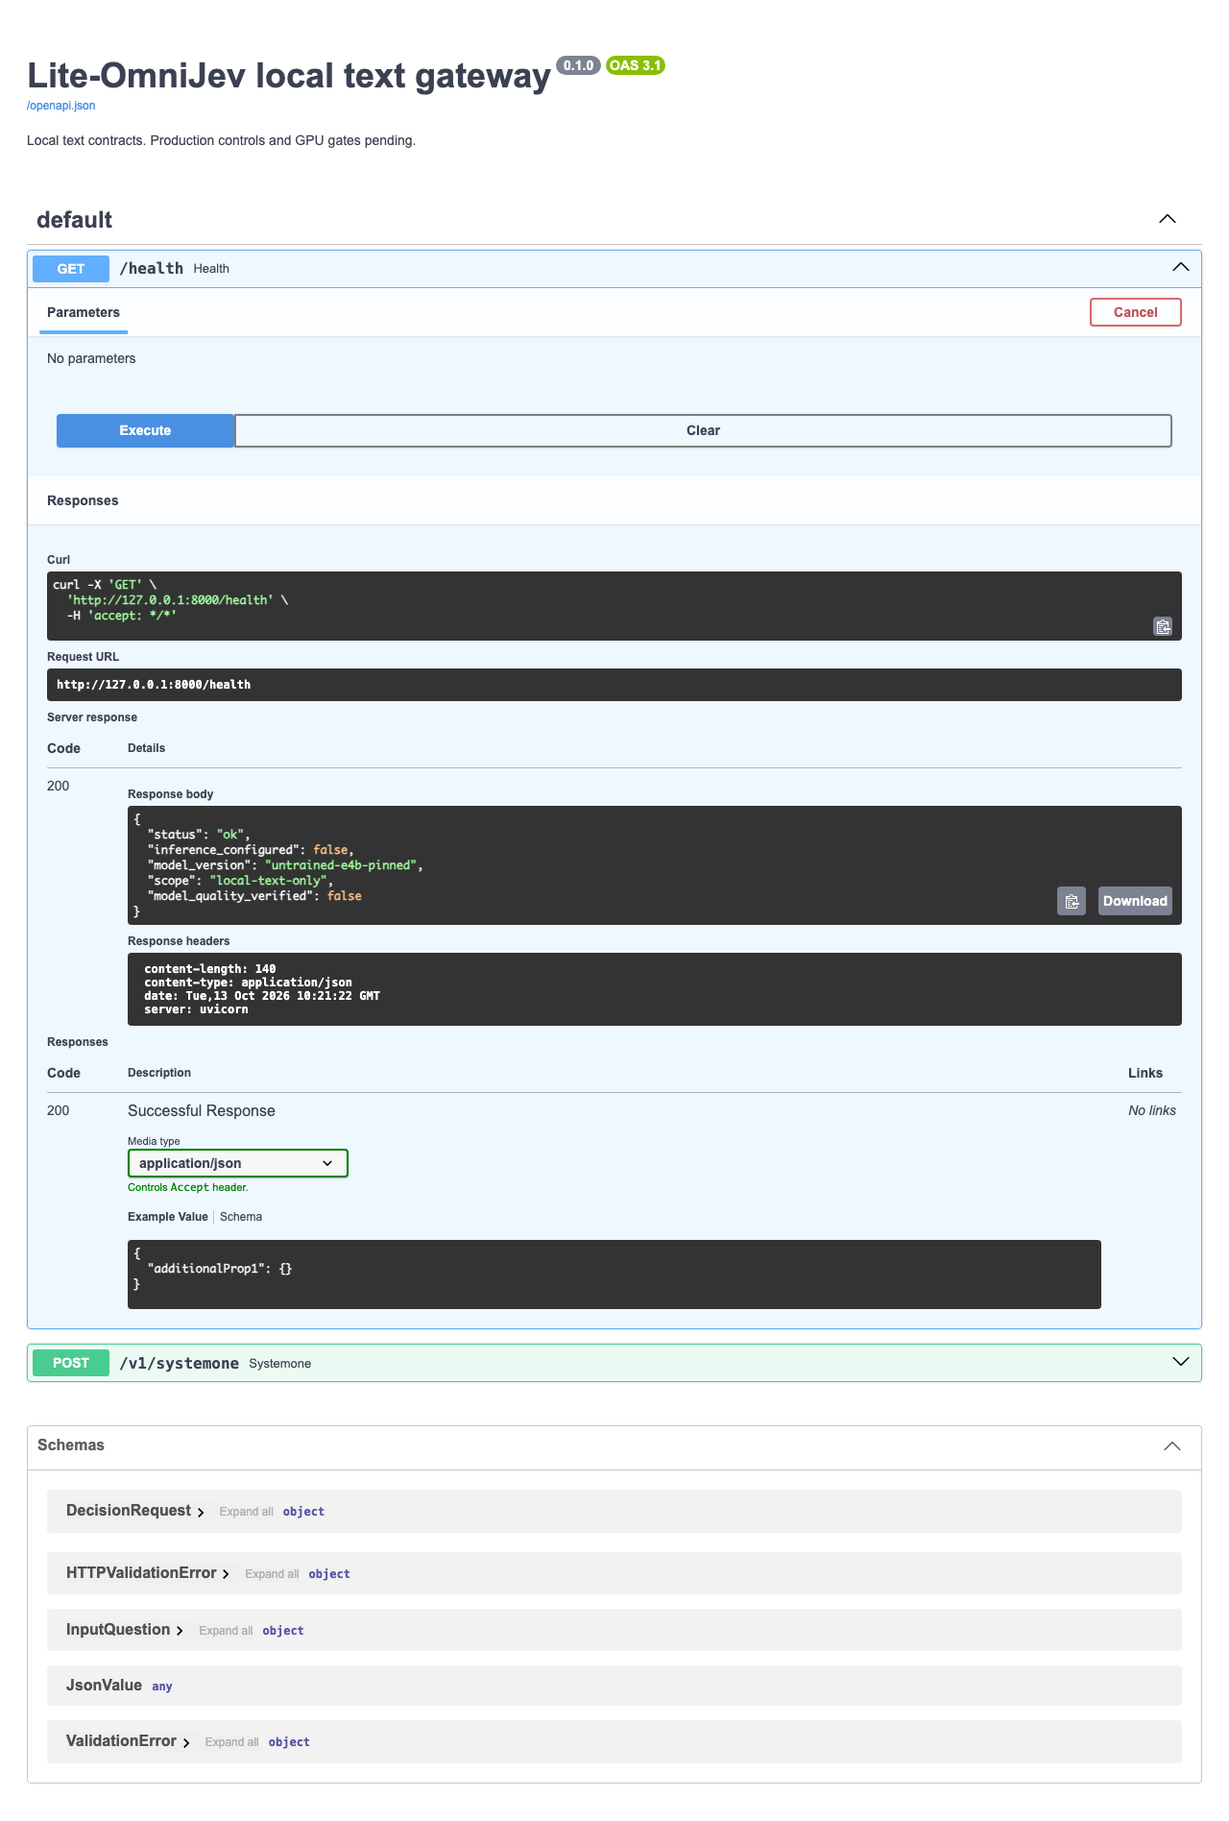
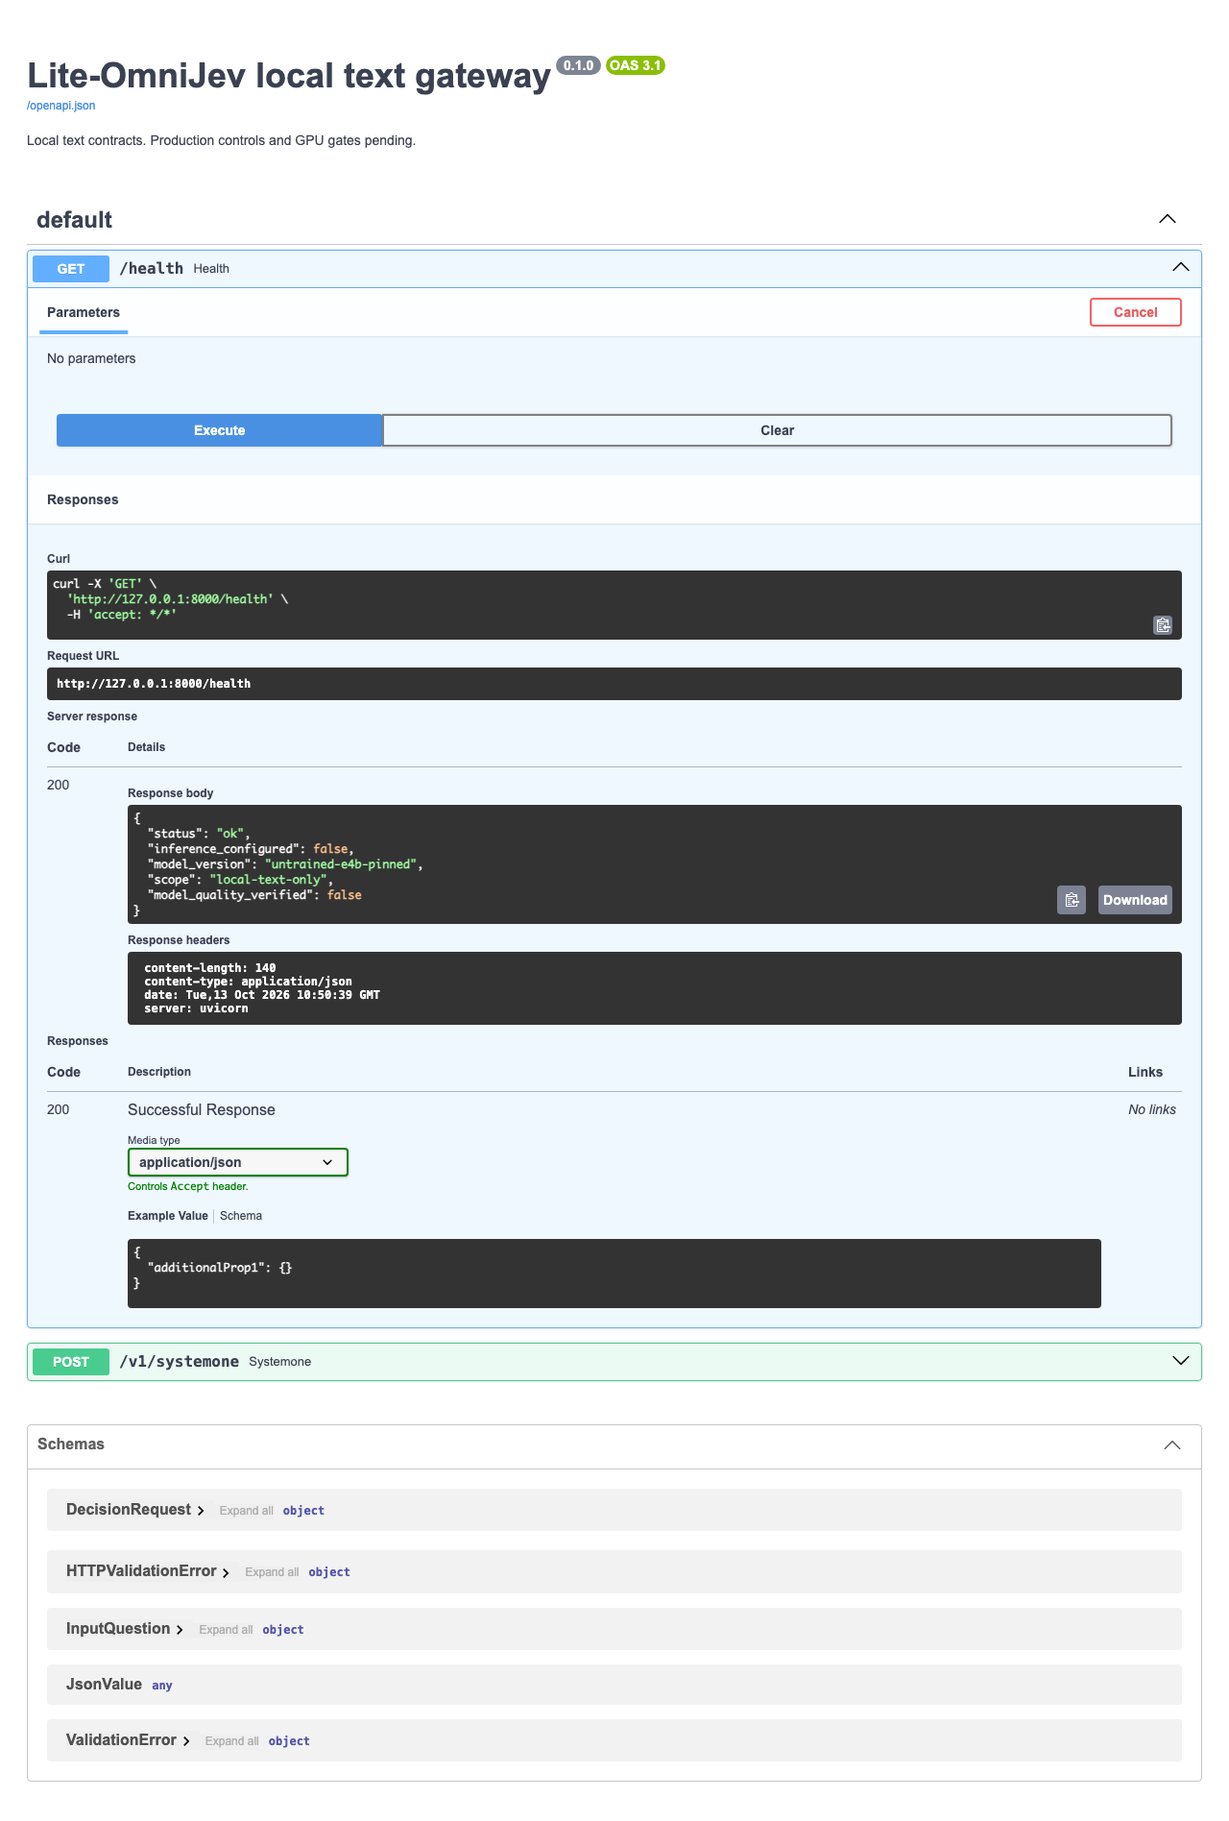
Hand off validated local preparation without claiming GPU readiness
Constraint: User retains rental, GPU activation and production authority.

Tested: 111 tests with no skips, Ruff, strict mypy, build, Chromium, asset hashes and queue.

Not-tested: Full weights, CUDA training, HF-vLLM parity and final product gates.

Confidence: high

Scope-risk: narrow

diff --git a/tests/test_training.py b/tests/test_training.py
@@ -294,6 +294,8 @@ def test_asset_manifest_must_cover_exactly_indexed_shards(tmp_path):
     model_dir = tmp_path / revision
     model_dir.mkdir()
     contents = {
+        "tokenizer.json": "{}",
+        "tokenizer_config.json": "{}",
         "config.json": json.dumps(
             {"model_type": "gemma4", "architectures": ["Gemma4ForConditionalGeneration"]}
         ),

diff --git a/plan/STATUS.md b/plan/STATUS.md
@@ -1,30 +1,44 @@
 # STATUS
 
-更新时间：2026-10-13 18:23（Asia/Shanghai）
-当前里程碑：M0（P0 CPU准备子集）；native goal active，尚未终局交付。
+更新时间：2026-10-13 18:52（Asia/Shanghai）
+当前里程碑：M0已完成；进入P0，等待用户提供持久无卡Linux实例。
+原生goal：active，终局目标不变；尚未交付真实模型/API/端侧产品，不能complete。
 
-## 进行中的票
-- bootstrap:01：规则/规格/循环；owner=leader；worktree=/Users/bamboo/Githubs/Lite-OmniJev。
-- bootstrap:05：整合验收等待bootstrap:01收口；代码已集成，最终独立审查待执行。
-
-## 已完成
-- bootstrap:02 核心46测试；bootstrap:03 资产17测试；bootstrap:04上游核验；bootstrap:06网关9测试+真实Chromium。
-- 已整合75个测试全绿，ruff/mypy通过，wheel/sdist构建成功；正式验收日志待固定。
-- E4B metadata7文件/32,226,275字节已下载校验；33个答案token及官方模板探针通过，未下载权重。
+## 当前票与所有者
+- bootstrap:01–08：全部done；各票验收与证据已记录，无活跃执行者。
+- p0:01：ready-for-human / blocked；用户提供无卡实例，阻塞p0:02。
+- p0:02：ready-for-agent / open；依赖p0:01，完成无卡环境/真实权重和数据准备。
+- p0:03：ready-for-human / blocked；只在p0:02完成后通知用户开卡。
+- p0:04：ready-for-agent / open；依赖p0:03，执行真实100样本10步到API集成。
+- delivery:01：blocked；P0及S0–S6出口未完成，后续继续追加阶段集成票依赖。
 
 ## 阻塞项
-- 无租用无卡Linux实例；本机ARM，完整教师+基座不适合当前磁盘。GPU/真实权重训练未验证。
-- Jev-Omni必需head.pt与safetensors-only冲突待安全适配；OneJev教师来源须准入；完整榜单含私有数据。
-- 原设计Score confidence与官方定义不同，当前明确标识兼容子集；后续完整SDK票处理。
+- 尚无租用无卡Linux实例/SSH入口；本机macOS arm64，无CUDA。
+- 本地只下载E4B7个metadata文件（32,226,275字节），完整权重未下载；真实训练0步。
+- 当前smoke入口无优化器/RNG恢复，P0票已要求长训练前补齐；adapter warm start不能冒充resume。
+- S0前须处理教师格式/来源准入、精确benchmark子集、人工封存集与私有榜单；证据见research报告。
 
 ## 待我决策
-- 本地M0完成后租持久无卡实例，见docs/runbooks/compute-handoff.md；现阶段不要开GPU。
-- 后续科学门槛涉及人工封存标注与私有榜单，不能靠agent自行编造；到S0拆专门票解决。
+- D001（现在）：用户租无卡Linux x86_64实例，提供SSH连接别名/主机端口与持久工作目录；先不要开GPU。
+  建议8vCPU/32GB RAM；E4B起步持久盘至少200GB，包含两教师/视频数据建议500GB以上，按实际manifest复核。
+  原因：租用/付费与账号是用户保留操作；代码、锁文件、资产工具和数据/训练入口已准备。
+- D002（后续）：S4放量/预算、任何门槛或产品范围改变、生产发布再提交决策；不提前默认授权。
 
 ## 下一步
-- 里程碑独立审查、补齐本地可编写的十步训练入口与失败验证，再输出无卡交接。
-- P0票已建；后续S0–S6按前序实测逐批拆，FINAL票已建立并blocked。
+1. 用户给出实例后核对架构、网络、持久磁盘；传送本地代码快照，无需push。
+2. 认领p0:02；按docs/runbooks/compute-handoff.md及assets.md下载/校验真实资产，锁Linux训练/服务环境，完善恢复和预检。
+3. no-gpu-readiness全通过后通知用户开卡；随后P0真实闭环，S0逐批出规格/拆票/triage。
+4. 无新实例/用户信息时当前frontier为空；不要重复下载、重跑已通过测试或制造票空转；保留这个阻塞交接。
 
-## 本轮证据
-- reports/asset-*.json、reports/e4b-token-probe.json、reports/cpu-smoke.json、reports/browser-smoke.json。
-- 本地提交已保存；远端仅read，没有push、远端issue/PR或gh轮询。
+## 最终本地证据
+- reports/bootstrap-validation.txt/json：111 tests passed，无跳过；Ruff/format、strict mypy20文件、wheel/sdist、CPU smoke、Chromium、queue、git diff全部exit0。
+- reports/browser-smoke.json/png：真实Chromium操作Swagger health200、未配置推理503、零page error；不是最终Playground验收。
+- reports/e4b-token-probe.json：33答案单token/无冲突/thinking关闭；reports/real-template-validation.json：400题实际生成边界通过。
+- reports/train-preflight.json：100样本max77tokens已编译；完整权重/CUDA缺失，expectedblocked/exit1/0训练步。
+- reports/m0-review.md：6项实质问题先复现后修复，独立定向复核通过。
+
+## 资源与Git
+- origin=https://github.com/xinzhuwang-wxz/Lite-OmniJev；仅本地提交，未push、未创建远端issue/PR、未轮询gh。
+- 本轮子代理全部结束；所有临时worktree已移除；验收服务器与浏览器均已退出。
+- 保留artifacts模型metadata、manifest和100样本缓存供续用；不删除用户原有资源。
+- 接续入口：plan/START.md；交接：plan/handoff-2026-10-13-bootstrap.md。

diff --git a/plan/handoff-2026-10-13-bootstrap.md b/plan/handoff-2026-10-13-bootstrap.md
@@ -1,0 +1,31 @@
+# M0 → 无卡准备交接
+
+本记录按用户的 handoff 约定保存在 plan/，覆盖技能默认临时目录。详细状态唯一入口：`plan/STATUS.md`。
+
+## 阅读顺序
+
+AGENTS.md → STATUS → docs/02-project.md → 当前spec/ticket → 相关ADR。
+源方案不改，方案漂移/兼容边界见 docs/research/2026-10-13-feasibility.md。
+
+## 已落实与证据
+
+代码/文件不在此重复，查看M0票与reports。CPU数据/读出/gate/HTTP/资产/队列测试和真实Chromium范围明确；GPU、真实质量、媒体和端侧没有通过声明。
+review曾发现覆盖率与资产ready误判，已修复回归；复核结论在 reports/m0-review.md。
+
+## 下一会话
+
+先确认用户是否已有无卡Linux实例。若有：按docs/runbooks/compute-handoff.md检查SSH与持久盘，下载本阶段必要权重/数据，锁Linux训练/服务环境，完成no-gpu-readiness报告后再通知开卡。
+若没有：不重复下载tokenizer或跑同一套已通过检查；只处理新证据/可独立推进的票，其余保持明确外部阻塞。
+封存集人工标注与私有榜单、教师来源/格式均有未解边界，S0阶段必须拆成实际票，不能自行宣称已解决。
+
+## Suggested skills
+
+setup-matt-pocock-skills 已配置，无需重跑。后续优先 to-spec、to-tickets、triage、handoff；实验优化有固定指标与预算才使用 autoresearch。不要激活superpowers或假设Sonnet/Haiku可用。
+
+## 资源与 Git
+
+默认本地票据/提交，不push；关联origin已核验，避免gh高频调用。
+每个并行执行者独立worktree，leader集中关票。结束时仅清理本次创建资源，保留artifacts缓存；模型资产内容不进Git。
+
+## M0最终出口
+111项测试无跳过通过；具体命令/退出码见reports/bootstrap-validation.txt。已具备真实基座十步训练入口及27项CPU训练验证，实际GPU训练0步。当前唯一可推进前置动作是用户提供无卡实例；无需重复setup或重做本地调研。

diff --git a/.scratch/bootstrap/issues/07-training.md b/.scratch/bootstrap/issues/07-training.md
@@ -4,8 +4,8 @@ ID: bootstrap:07
 Milestone: M0
 Category: enhancement
 Status: ready-for-agent
-Execution: claimed
-Owner: training
+Execution: done
+Owner: none
 Worktree: /Users/bamboo/Githubs/Lite-OmniJev/.worktrees/training
 Blocked by: 02, 03, 04, 06
 
@@ -13,9 +13,9 @@ Blocked by: 02, 03, 04, 06
 准备真实基座十步LoRA入口与CPU损失验证。所有权：train/trainer.py scripts/train_smoke.py configs/train-smoke.json tests/test_training.py docs/runbooks/training.md。准备与真实GPU通过分开；用户授权包括本地可完成代码，不把可本地编写的训练入口假装外部阻塞。
 
 ## Acceptance criteria
-- [ ] 有独立工具验证证据和清楚的未验证边界。
-- [ ] 训练入口：固定本地revision、官方模板、LoRA冻结主干、有限损失和checkpoint；不执行remote code，未配GPU不能假报训练通过。
-- [ ] CPU梯度与非法输入测试通过；真实CUDA训练明确pending，无合成质量宣称。
+- [x] 有独立工具验证证据和清楚的未验证边界。
+- [x] 训练入口：固定本地revision、官方模板、LoRA冻结主干、有限损失和checkpoint；不执行remote code，未配GPU不能假报训练通过。
+- [x] CPU梯度与非法输入测试通过；真实CUDA训练明确pending，无合成质量宣称。
 
 ## Out of scope
 GPU训练、租卡、下载大权重、模型效果与生产发布。
@@ -23,3 +23,5 @@ GPU训练、租卡、下载大权重、模型效果与生产发布。
 ## Comments
 > *This was generated by AI during triage.*
 本地准备追加收口项，范围不扩展至实际GPU运行；与未来P0真实闭环分开验收。
+
+Evidence: commit4f16527; 27 CPU tests with real torch/PEFT and Gemma4 class imports, no skips; Ruff and strict mypy passed. Real model/GPU training remains0steps.

diff --git a/.scratch/bootstrap/issues/08-review.md b/.scratch/bootstrap/issues/08-review.md
@@ -4,8 +4,8 @@ ID: bootstrap:08
 Milestone: M0
 Category: enhancement
 Status: ready-for-agent
-Execution: claimed
-Owner: review
+Execution: done
+Owner: none
 Worktree: /Users/bamboo/Githubs/Lite-OmniJev/.worktrees/review
 Blocked by: 02, 03, 04, 06
 
@@ -13,9 +13,9 @@ Blocked by: 02, 03, 04, 06
 独立审查本地里程碑与交付状态诚实性。所有权：reports/m0-review.md（只读审查其余文件）。准备与真实GPU通过分开；用户授权包括本地可完成代码，不把可本地编写的训练入口假装外部阻塞。
 
 ## Acceptance criteria
-- [ ] 有独立工具验证证据和清楚的未验证边界。
-- [ ] 复核规格/队列/证据与实际代码，区分当前缺陷与有票追踪的未来范围。
-- [ ] 审查：关键问题具体可复现，修复后更新结论，无当前范围P0/P1问题遗留。
+- [x] 有独立工具验证证据和清楚的未验证边界。
+- [x] 复核规格/队列/证据与实际代码，区分当前缺陷与有票追踪的未来范围。
+- [x] 审查：关键问题具体可复现，修复后更新结论，无当前范围P0/P1问题遗留。
 
 ## Out of scope
 GPU训练、租卡、下载大权重、模型效果与生产发布。
@@ -23,3 +23,5 @@ GPU训练、租卡、下载大权重、模型效果与生产发布。
 ## Comments
 > *This was generated by AI during triage.*
 本地准备追加收口项，范围不扩展至实际GPU运行；与未来P0真实闭环分开验收。
+
+Evidence: reports/m0-review.md (six reproduced issues fixed and independently reverified; 84 tests). Training runner validated separately in bootstrap:07.

diff --git a/.scratch/bootstrap/issues/05-integration.md b/.scratch/bootstrap/issues/05-integration.md
@@ -4,18 +4,18 @@ ID: bootstrap:05
 Milestone: M0
 Category: enhancement
 Status: ready-for-agent
-Execution: open
+Execution: done
 Owner: none
-Worktree: none
+Worktree: /Users/bamboo/Githubs/Lite-OmniJev
 Blocked by: 01, 02, 03, 04, 06, 07, 08
 
 ## What to build
 本地环境、命令与可恢复队列集成验收。改动所有权：pyproject/lock/Makefile/循环 CLI/集成验证。
 
 ## Acceptance criteria
-- [ ] 对用户可观察的成功与失败路径均有验证证据。
-- [ ] 命令、输入输出、依赖和限制有文档，后续无需重新调研才能接续。
-- [ ] 相关测试通过，证据写入 reports，未运行的 GPU 验收明确 pending。
+- [x] 对用户可观察的成功与失败路径均有验证证据。
+- [x] 命令、输入输出、依赖和限制有文档，后续无需重新调研才能接续。
+- [x] 相关测试通过，证据写入 reports，未运行的 GPU 验收明确 pending。
 
 ## Out of scope
 租卡、开关卡、生产发布、权重训练、降低门槛、修改其他任务所有文件。
@@ -24,3 +24,5 @@ Blocked by: 01, 02, 03, 04, 06, 07, 08
 > *This was generated by AI during triage.*
 
 已检查仓库：仅设计 HTML 和 LICENSE，无重复实现、无既有拒绝记录；本任务为 M0 必要准备。
+
+Evidence: reports/bootstrap-validation.txt/json (111 passed, no skips; Ruff/format/mypy20files/build/Chromium/queue all exit0); reports/train-preflight.json expectedblocked (missing weights+CUDA,0steps).

diff --git a/.scratch/bootstrap/issues/01-workflow.md b/.scratch/bootstrap/issues/01-workflow.md
@@ -4,8 +4,8 @@ ID: bootstrap:01
 Milestone: M0
 Category: enhancement
 Status: ready-for-agent
-Execution: claimed
-Owner: leader
+Execution: done
+Owner: none
 Worktree: /Users/bamboo/Githubs/Lite-OmniJev
 Blocked by: None
 
@@ -13,9 +13,9 @@ Blocked by: None
 项目契约、规格与恢复循环。改动所有权：规划/状态/配置/根文档。
 
 ## Acceptance criteria
-- [ ] 对用户可观察的成功与失败路径均有验证证据。
-- [ ] 命令、输入输出、依赖和限制有文档，后续无需重新调研才能接续。
-- [ ] 相关测试通过，证据写入 reports，未运行的 GPU 验收明确 pending。
+- [x] 对用户可观察的成功与失败路径均有验证证据。
+- [x] 命令、输入输出、依赖和限制有文档，后续无需重新调研才能接续。
+- [x] 相关测试通过，证据写入 reports，未运行的 GPU 验收明确 pending。
 
 ## Out of scope
 租卡、开关卡、生产发布、权重训练、降低门槛、修改其他任务所有文件。
@@ -24,3 +24,5 @@ Blocked by: None
 > *This was generated by AI during triage.*
 
 已检查仓库：仅设计 HTML 和 LICENSE，无重复实现、无既有拒绝记录；本任务为 M0 必要准备。
+
+Evidence: AGENTS.md 75 lines; CLAUDE.md exact one-line @AGENTS.md; docs/02-project.md, plan/LOOP.md, plan/START.md; queue validate and local Markdown links check pass.

diff --git a/docs/02-project.md b/docs/02-project.md
@@ -76,3 +76,9 @@ API 服务端目标：文本<40ms、截图<60ms、16帧视频<200ms；含网关/
 常规 spec/拆票/triage、技术验证、里程碑推进由 agent 决定；用户负责租用/开关卡及必须本人完成的账号授权。
 封存集人工标注不是 agent 自己生成的“人工真值”；有合规现成人工标注则复用，否则列阻塞，不能伪造 κ。
 生产发布、付费、删除数据、重大预算/阈值/方向改变仍须用户决定；继续其它不受影响票。
+
+## 可选训练准备命令
+
+安装：`uv sync --frozen --extra training --group dev`；CPU损失/LoRA验证：`uv run --extra training pytest tests/test_training.py`。
+十步真实训练的preflight/run入口见 `docs/runbooks/training.md`；`preflight` 在本机缺权重/CUDA时应返回blocked与非零退出，这个拒绝是预期行为，不能计为GPU通过。
+本地跑通的CPU版本锁用于验证代码，实际租机仍须核验驱动/CUDA组合与vLLM的独立环境。

diff --git a/plan/LOOP.md b/plan/LOOP.md
@@ -23,7 +23,7 @@
 ## 状态与恢复规则
 
 票据是任务状态源；STATUS 是人可读调度快照，不能与票矛盾。每轮结束检查两者。
-triage Status 和 Execution 分开；blocked 票保留真实依赖，不能伪装 ready frontier。
+triage Status 和 Execution 分开；仅受票据依赖限制的任务用open+Blocked by，依赖完成即自动进入frontier。blocked用于额外外部/信息/未展开门槛，恢复时须有解除证据，不能无限留在blocked或伪装ready。
 新会话发现 claimed：先检查 agent/process/worktree；确认执行者结束或不存在后记录恢复理由再转 open，保留修改。
 用户只改变当前分支约束时保留总体目标；任何门槛/范围改变写 ADR 并有用户依据。
 原生 goal 状态与磁盘状态冲突时报告差异，按工具真实状态更新；没有 native goal 的新会话按原目标创建，不假装旧 goal 被迁移。

diff --git a/AGENTS.md b/AGENTS.md
@@ -27,6 +27,7 @@
 - 当前可用命令及验证状态以 `docs/02-project.md` 为准；新增命令必须实跑后才能标为可用。
 - `uv sync --frozen --group dev` 安装本地环境；`uv run pytest` 测外部行为。
 - `uv run ruff check .`、`uv run ruff format --check .`；`uv run mypy data train eval serve scripts` 做类型检查。
+- 训练入口先 `uv sync --frozen --extra training --group dev`；CPU验证 `make training-check`，GPU实跑按训练runbook。
 - `uv build` 构建 Python 包；`uv run uvicorn serve.gateway.app:app --host 127.0.0.1 --port 8000` 本地开发。
 - `data/` 数据契约/构建/去污染；`train/` 共享模板/训练/校准；`eval/` 指标和门槛。
 - `serve/` 网关与部署适配；`configs/` 阶段配置；`infra/` 可复现环境；`scripts/` 操作入口；`tests/` 行为测试。

diff --git a/.scratch/p0/issues/04-real-integration.md b/.scratch/p0/issues/04-real-integration.md
@@ -4,7 +4,7 @@ ID: p0:04
 Milestone: P0
 Category: enhancement
 Status: ready-for-agent
-Execution: blocked
+Execution: open
 Owner: none
 Worktree: none
 Blocked by: 03
@@ -16,6 +16,7 @@ Blocked by: 03
 - [ ] 100样本通过schema；基座冻结、只有LoRA可训练，十步损失和梯度有限，保存safetensors。
 - [ ] 固定模板/token映射，重载后评测与HTTP推理真实返回答案；模型、校准和配置版本可追溯。
 - [ ] 浏览器走docs/02-project.md当前适用步骤；mock不可代过，GPU/HF/vLLM差异如实记录。
+- [ ] 验证checkpoint重载；长训练前补齐优化器/RNG断点恢复，不能把adapter warm start当完整resume。
 - [ ] 产物落持久存储，结束资源清单与关卡通知已发；P0报告明确后续S0尚未通过。
 
 ## Out of scope

diff --git a/docs/agents/triage-labels.md b/docs/agents/triage-labels.md
@@ -3,5 +3,5 @@
 五种 canonical role 与本地 Status 一一同名：needs-triage、needs-info、ready-for-agent、ready-for-human、wontfix。
 每张已 triage 的票恰有一个 Category（bug/enhancement）和一个 Status。
 Execution 独立记录 open/claimed/blocked/done，完成不增加第六个 triage 标签。
-用户租卡/账号操作标 ready-for-human；缺少产品决定标 needs-info；纯技术依赖保留 ready-for-agent + blocked。
+用户租卡/账号操作标 ready-for-human；缺少产品决定标 needs-info；纯技术依赖保留 ready-for-agent + Execution=open，frontier按Blocked by过滤；blocked只用于额外外部/信息/科学门槛阻塞。
 同一票出现互斥标签时先查最新明确用户决定，无依据则标冲突、记录待决策，不擅自消解。
